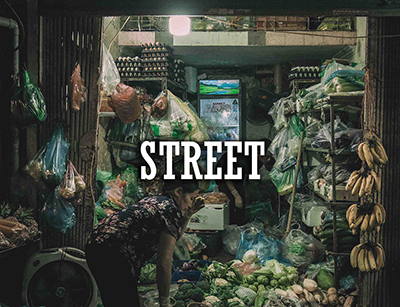
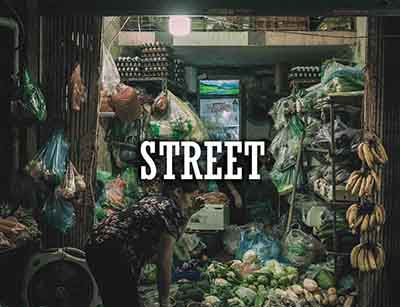
responsive images

diff --git a/work/work.html b/work/work.html
@@ -58,13 +58,23 @@
 						<div class="white">
 							<p class='code_title'>MICRO:BIT</p>
 						</div>
-						<img loading='lazy' src='../img/IMG_1234.jpg' class='carousel_image' alt=''>  
+						<img loading='lazy' src='../img/IMG_1234.jpg' class='carousel_image' alt=''
+						srcset='../img/IMG_1234s.jpg 160w,
+						../img/IMG_1234ss.jpg 200w,
+						../img/IMG_1234sss.jpg 400w,
+						../img/IMG_1234.jpg 1200w'
+						sizes="(max-width: 321px) 160px, (max-width: 376px) and (min-width: 321px) 200px, (max-width: 600px) and (min-width: 376px) 200px, (max-width: 768px) and (min-width: 600px) 400px, (min-width: 2000px) 1200px, 550px">  
 					</li>
 					<li class="carousel_slide" id='carousel_coding2'>
 						<div class="white">
 							<p class='code_title'>WEBSITE</p> 
 						</div>
-						<img loading='lazy' src='../img/Capture.JPG' class='carousel_image' alt=''> 
+						<img loading='lazy' src='../img/Capture.JPG' class='carousel_image' alt=''
+						srcset='../img/Captures.jpg 160w,
+						../img/Capturess.jpg 200w,
+						../img/Capturesss.jpg 400w,
+						../img/Capture.jpg 1200w'
+						sizes="(max-width: 321px) 160px, (max-width: 376px) and (min-width: 321px) 200px, (max-width: 600px) and (min-width: 376px) 200px, (max-width: 768px) and (min-width: 600px) 400px, (min-width: 2000px) 1200px, 550px"> 
 					</li>
 
 				</ul>
@@ -95,16 +105,36 @@
 						sizes="(max-width: 321px) 160px, (max-width: 376px) and (min-width: 321px) 200px, (max-width: 600px) and (min-width: 376px) 200px, (max-width: 768px) and (min-width: 600px) 400px, (min-width: 2000px) 1200px, 550px">  
 					</li>
 					<li class="carousel_slide2" id='carousel2'>
-						<img loading='lazy' src='../img/2.jpg' class='carousel_image2' alt=''>  
+						<img loading='lazy' src='../img/2.jpg' class='carousel_image2' alt=''
+						srcset='../img/2s.jpg 160w,
+						../img/2ss.jpg 200w,
+						../img/2sss.jpg 400w,
+						../img/2.jpg 1200w'
+						sizes="(max-width: 321px) 160px, (max-width: 376px) and (min-width: 321px) 200px, (max-width: 600px) and (min-width: 376px) 200px, (max-width: 768px) and (min-width: 600px) 400px, (min-width: 2000px) 1200px, 550px">  
 					</li>
 					<li class="carousel_slide2" id='carousel3'>
-						<img loading='lazy' src='../img/3.jpg' class='carousel_image2' alt=''> 
+						<img loading='lazy' src='../img/3.jpg' class='carousel_image2' alt=''
+						srcset='../img/3s.jpg 160w,
+						../img/3ss.jpg 200w,
+						../img/3sss.jpg 400w,
+						../img/3.jpg 1200w'
+						sizes="(max-width: 321px) 160px, (max-width: 376px) and (min-width: 321px) 200px, (max-width: 600px) and (min-width: 376px) 200px, (max-width: 768px) and (min-width: 600px) 400px, (min-width: 2000px) 1200px, 550px"> 
 					</li>
 					<li class="carousel_slide2" id='carousel4'>
-						<img loading='lazy' src='../img/4.jpg' class='carousel_image2' alt=''>  
+						<img loading='lazy' src='../img/4.jpg' class='carousel_image2' alt=''
+						srcset='../img/4s.jpg 160w,
+						../img/4ss.jpg 200w,
+						../img/4sss.jpg 400w,
+						../img/4.jpg 1200w'
+						sizes="(max-width: 321px) 160px, (max-width: 376px) and (min-width: 321px) 200px, (max-width: 600px) and (min-width: 376px) 200px, (max-width: 768px) and (min-width: 600px) 400px, (min-width: 2000px) 1200px, 550px">  
 					</li>
 					<li class="carousel_slide2" id='carousel5'>
-						<img loading='lazy' src='../img/5.jpg' class='carousel_image2' alt=''>
+						<img loading='lazy' src='../img/5.jpg' class='carousel_image2' alt=''
+						srcset='../img/5s.jpg 160w,
+						../img/5ss.jpg 200w,
+						../img/5sss.jpg 400w,
+						../img/5.jpg 1200w'
+						sizes="(max-width: 321px) 160px, (max-width: 376px) and (min-width: 321px) 200px, (max-width: 600px) and (min-width: 376px) 200px, (max-width: 768px) and (min-width: 600px) 400px, (min-width: 2000px) 1200px, 550px">
 					</li>
 				</ul>
 			</div>
@@ -122,7 +152,12 @@
 		<script src='./carousel2.js'></script>
 		<h2>WORK</h2>
 		<div class='work' id='carousel_internships'>
-			<img src='../img/tinkertanker.jpg' alt='' id='workimg'>
+			<img src='../img/tinkertanker.jpg' alt='' id='workimg'
+			srcset='../img/tinkertankers.jpg 160w,
+						../img/tinkertankerss.jpg 200w,
+						../img/tinkertankersss.jpg 400w,
+						../img/tinkertanker.jpg 1200w'
+						sizes="(max-width: 321px) 160px, (max-width: 376px) and (min-width: 321px) 200px, (max-width: 600px) and (min-width: 376px) 200px, (max-width: 768px) and (min-width: 600px) 400px, (min-width: 2000px) 1200px, 550px">
 			<p class='work_title'>INTERNSHIPS</p>
 		</div>
 	</section>
